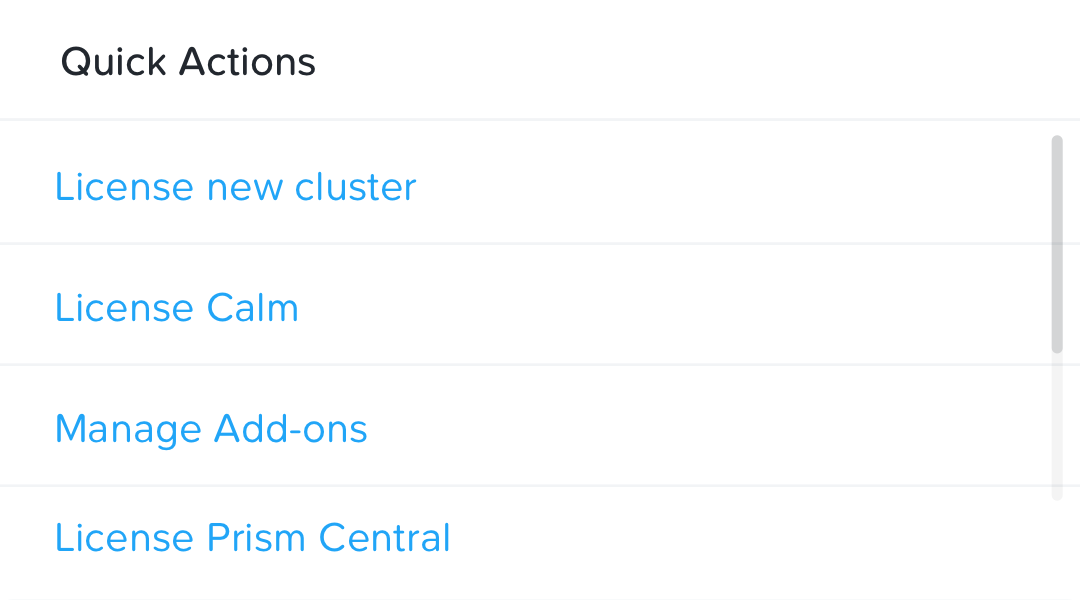
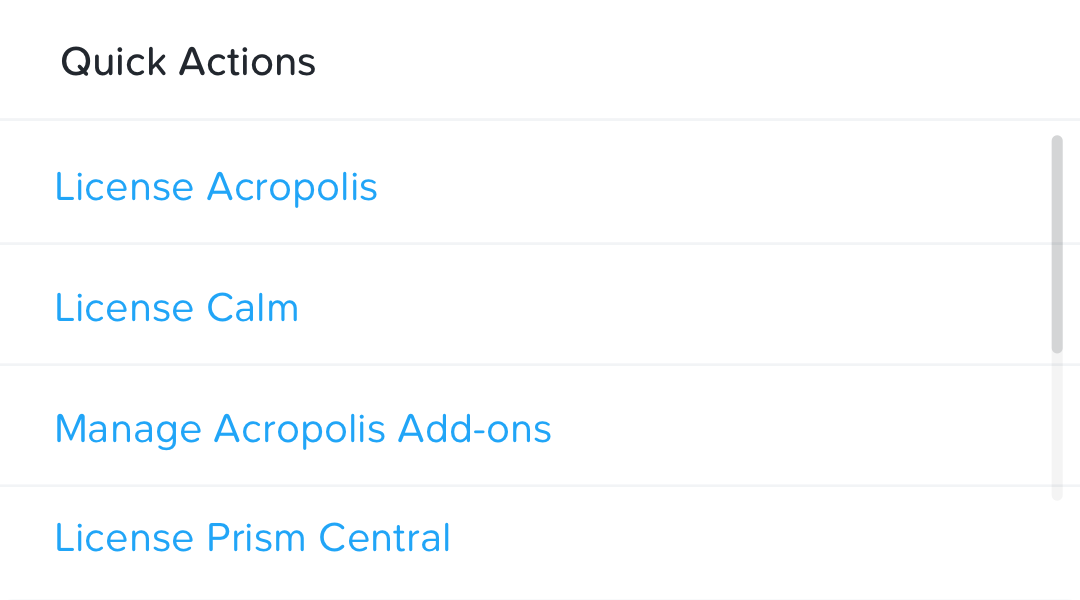
made 2 col cleaner

Changed region(s): [[0.2139, 0.69, 0.5194, 0.75], [0.1833, 0.27, 0.3972, 0.36]]

diff --git a/js/data.js b/js/data.js
@@ -4,8 +4,8 @@ const multiClusterData2 = {
 }
 
 const cardData = {
-  cardBody: ['Prosql_3002', 'Ntnx_Marketing_001',''],
-  cardSecondary: ["Is consuming the most licenses", 'expires in 30 days',''],
+  cardBody: ['Prosql_3002', 'Ntnx_Marketing_001'],
+  cardSecondary: ["Is consuming the most licenses", 'expires in 30 days'],
 }
 
 const fsChecked = `

diff --git a/css/style.scss b/css/style.scss
@@ -220,6 +220,7 @@ header {
 	overflow-x: hidden;
 }
 //actions
+
 .actions {
 	@include flex(center, flex-start, row);
 	@include size(auto, 100%);
@@ -1226,6 +1227,11 @@ input[type="file"] {
 	background-color: #1E85EF;
 	border-radius: 4px;
 	margin-bottom: 20px;
+}
+
+
+.col > *{
+	width: calc(50% - 10px);
 }
 
 .current-consumption {

diff --git a/index.html b/index.html
@@ -55,7 +55,7 @@
     </div>
 
     <!-- info cards -->
-    <div class="deck"></div>
+    <div class="deck col"></div>
 
     <!-- table -->
     <table class="table tusage">

diff --git a/css/style.css b/css/style.css
@@ -2113,6 +2113,10 @@ input[type="file"] {
   margin-bottom: 20px;
 }
 
+.col > * {
+  width: calc(50% - 10px);
+}
+
 .current-consumption {
   position: relative;
 }

diff --git a/js/script.js b/js/script.js
@@ -1,5 +1,3 @@
-/// TODO: Quick action change to License Acropolis (A/B Testing)
-/// TODO: Manage Acropolis Addons
 /// TODO: Core HHD SSD.
 ///
 
